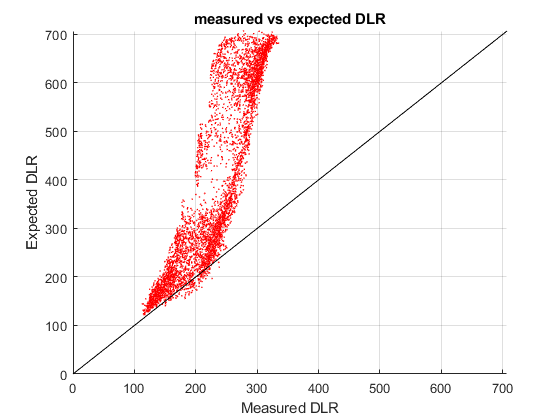
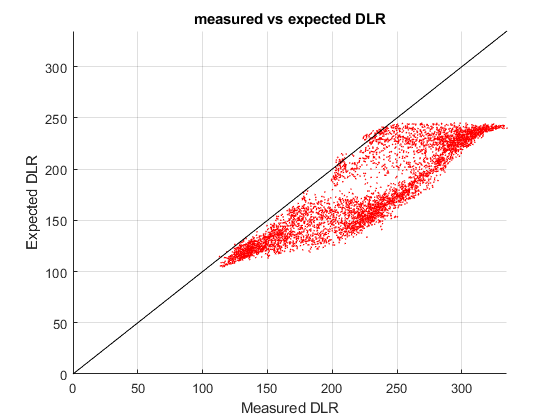
fixed MatLab error re: Pw calculation. Add text to README

diff --git a/arctic-cloud-mat/data/2024-01-31-tower-hourly/uncleaned_data.m b/arctic-cloud-mat/data/2024-01-31-tower-hourly/uncleaned_data.m
@@ -53,9 +53,9 @@ eps_cs2 = DLR ./ (sigma * T2.^4);
 eps_cs10 = DLR ./ (sigma * T10.^4);
 
 %% Brunt Model Calculation
-% Convert water vapor content to partial pressure of water vapor
-Pw2 = (q2 .* Pa)./(q2 + .622); 
-Pw10 = (q10 .* Pa)./(q10 + .622);
+% Convert water vapor content to partial pressure of water vapor (hPa)
+Pw2 = ((q2 .* Pa)./(q2 + .622))/100; 
+Pw10 = ((q10 .* Pa)./(q10 + .622))/100;
 
 % % Calculate expected DLR based on original Brunt Model (2)
 % eps_b2 = 0.52 + 0.065*sqrt(Pw2);
@@ -89,7 +89,7 @@ grid on; hold on;
 validIndices = ~isnan(DLR) & ~isnan(DLR_exp2);
 scatter(DLR(validIndices),DLR_exp2(validIndices), .5, 'b');
 
-% Insert a black line to mark expected trendline
+% Insert a black line to mark expected = measured
 line([0, max(max(DLR(validIndices)),max(DLR_exp2(validIndices)))], ...
     [0, max(max(DLR(validIndices)),max(DLR_exp2(validIndices)))], ...
     'Color', 'k', 'LineStyle', '-');

diff --git a/README.md b/README.md
@@ -1,0 +1,13 @@
+### This project is a work in progress - none of the code is complete or reliable
+# Calibrating a Brunt-type model for DLR using arctic data
+The equation for emissivity introduced by Brunt 1932:
+        $$
+        \varepsilon = c_1 + c_2\sqrt{P_w}
+        $$
+has shown to be, unsurprisingly, most accurate where the parameters are calibrated. 
+Due to the unique atmospheric qualities at extreme latitudes (i.e. above the arctic circle), parameters calibrated from data in subtropical and mid latitudes perform poorly. 
+The aim of this project is to calibrate an equation for estimating clear sky emissivity in arctic conditions, and further, to investigate an analytical connection between cloud optical thickness and cloud radiative forcing 
+
+## Use
+## Requirements
+### References
